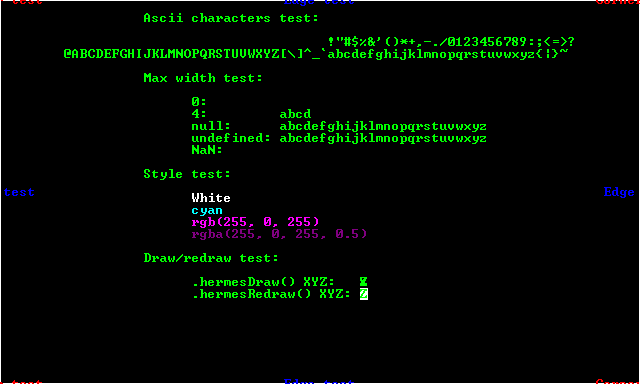
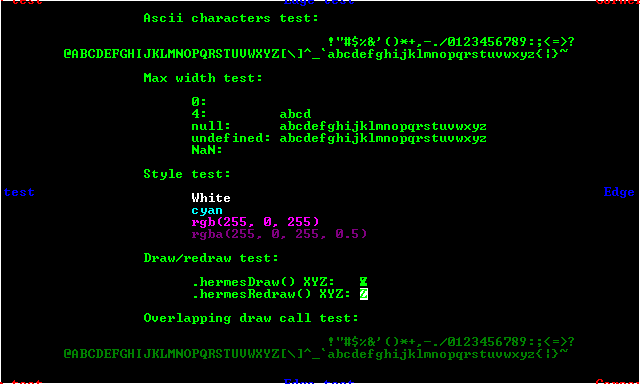
Remove overlapping draw calls for proper transparency

Changed region(s): [[0.0938, 0.875, 0.9062, 0.9375], [0.2188, 0.8125, 0.5625, 0.8438]]

diff --git a/Hermes/Hermes.js b/Hermes/Hermes.js
@@ -19,17 +19,17 @@ var HERMES = (function() { // Module pattern
   // @prop Object DRAW_CALLS -- Holds coordinates used in .fillRect() calls for each ascii character
   var DRAW_CALLS = exports.DRAW_CALLS = {
     ' ' : [],
-    '!' : [[1,  2, 4,  3], [2,  1, 2,  6], [2,  8, 2,  2]],
+    '!' : [[1,  2, 1,  3], [2,  1, 2,  6], [2,  8, 2,  2], [4,  2, 1,  3]],
     '"' : [[1,  1, 2,  3], [2,  4, 1,  1], [5,  1, 2,  3], [5,  4, 1,  1]],
-    '#' : [[1,  1, 2,  9], [0,  3, 7,  1], [4,  1, 2,  9], [0,  7, 7,  1]],
+    '#' : [[0,  3, 7,  1], [0,  7, 7,  1], [1,  1, 2,  2], [1,  4, 2,  3], [1,  8, 2,  2], [4,  1, 2,  2], [4,  4, 2,  3], [4,  8, 2,  2]],
     '$' : [[2,  0, 2,  2], [1,  2, 5,  1], [0,  3, 2,  2], [1,  5, 4,  1], [4,  6, 2,  2], [0,  8, 5,  1], [2,  9, 2,  2]],
     '%' : [[0,  3, 2,  2], [5,  3, 1,  1], [4,  4, 2,  1], [3,  5, 2,  1], [2,  6, 2,  1], [1,  7, 2,  1], [0,  8, 2,  1], [0,  9, 1,  1], [4,  8, 2,  2]],
-    '&' : [[1,  1, 3,  1], [0,  2, 2,  2], [3,  2, 2,  2], [1,  4, 3,  2], [0,  5, 2,  4], [3,  5, 2,  2], [6,  5, 1,  2], [4,  6, 2,  3], [3,  8, 1,  1], [1,  9, 3,  1], [5,  9, 2,  1]],
+    '&' : [[1,  1, 3,  1], [0,  2, 2,  2], [3,  2, 2,  2], [1,  4, 3,  1], [0,  5, 2,  4], [2,  5, 3,  1], [3,  6, 4,  1], [6,  5, 1,  1], [4,  7, 2,  2], [3,  8, 1,  1], [1,  9, 3,  1], [5,  9, 2,  1]],
     '\'': [[2,  1, 2,  3], [1,  4, 2,  1]],
     '(' : [[4,  1, 2,  1], [3,  2, 2,  1], [2,  3, 2,  5], [3,  8, 2,  1], [4,  9, 2,  1]],
     ')' : [[2,  1, 2,  1], [3,  2, 2,  1], [4,  3, 2,  5], [3,  8, 2,  1], [2,  9, 2,  1]],
-    '*' : [[1,  3, 2,  1], [5,  3, 2,  1], [2,  4, 4,  3], [0,  5, 8,  1], [1,  7, 2,  1], [5,  7, 2,  1]],
-    '+' : [[3,  3, 2,  5], [1,  5, 6,  1]],
+    '*' : [[1,  3, 2,  1], [5,  3, 2,  1], [2,  4, 4,  1], [0,  5, 8,  1], [2,  6, 4,  1], [1,  7, 2,  1], [5,  7, 2,  1]],
+    '+' : [[3,  3, 2,  2], [1,  5, 6,  1], [3,  6, 2,  2]],
     ',' : [[2,  8, 3,  2], [1,  10, 2,  1]],
     '-' : [[0,  5, 7,  1]],
     '.' : [[2,  8, 3,  2]],
@@ -38,7 +38,7 @@ var HERMES = (function() { // Module pattern
     '1' : [[0,  3, 2,  1], [2,  2, 2,  7], [3,  1, 1,  1], [0,  9, 6,  1]],
     '2' : [[1,  1, 4,  1], [0,  2, 2,  2], [4,  2, 2,  3], [3,  5, 2,  1], [2,  6, 2,  1], [1,  7, 2,  1], [0,  8, 2,  1], [4,  8, 2,  1], [0,  9, 6,  1]],
     '3' : [[1,  1, 4,  1], [0,  2, 2,  1], [4,  2, 2,  3], [2,  5, 3,  1], [4,  6, 2,  3], [0,  8, 2,  1], [1,  9, 4,  1]],
-    '4' : [[4,  1, 2,  8], [3,  2, 1,  1], [2,  3, 2,  1], [1,  4, 2,  1], [0,  5, 2,  1], [0,  6, 7,  1], [3,  9, 4,  1]],
+    '4' : [[4,  1, 2,  8], [3,  2, 1,  1], [2,  3, 2,  1], [1,  4, 2,  1], [0,  5, 2,  1], [0,  6, 4,  1], [6,  6, 1,  1], [3,  9, 4,  1]],
     '5' : [[0,  1, 6,  1], [0,  2, 2,  3], [0,  5, 5,  1], [4,  6, 2,  3], [0,  8, 2,  1], [1,  9, 4,  1]],
     '6' : [[2,  1, 3,  1], [1,  2, 2,  1], [0,  3, 2,  6], [2,  5, 3,  1], [4,  6, 2,  3], [1,  9, 4,  1]],
     '7' : [[0,  1, 7,  1], [0,  2, 2,  2], [5,  2, 2,  3], [4,  5, 2,  1], [3,  6, 2,  1], [2,  7, 2,  3]],
@@ -67,7 +67,7 @@ var HERMES = (function() { // Module pattern
     'N' : [[0,  1, 2,  9], [2,  3, 1,  3], [3,  4, 1,  3], [4,  5, 1,  3], [5,  1, 2,  9]],
     'O' : [[2,  1, 3,  1], [1,  2, 2,  1], [4,  2, 2,  1], [0,  3, 2,  5], [5,  3, 2,  5], [1,  8, 2,  1], [4,  8, 2,  1], [2,  9, 3,  1]],
     'P' : [[0,  1, 6,  1], [1,  2, 2,  7], [5,  2, 2,  3], [3,  5, 3,  1], [0,  9, 4,  1]],
-    'Q' : [[2,  1, 3,  1], [1,  2, 2,  1], [4,  2, 2,  1], [0,  3, 2,  5], [5,  3, 2,  5], [1,  8, 3,  1], [3,  7, 1,  1], [4,  6, 2,  4], [3, 10, 4,  1]],
+    'Q' : [[2,  1, 3,  1], [1,  2, 2,  1], [4,  2, 2,  1], [0,  3, 2,  5], [5,  3, 2,  5], [1,  8, 5,  1], [3,  7, 1,  1], [4,  6, 1,  2], [4,  9, 2,  1], [3, 10, 4,  1]],
     'R' : [[0,  1, 6,  1], [1,  2, 2,  7], [5,  2, 2,  3], [3,  5, 3,  1], [0,  9, 3,  1], [4,  6, 2,  1], [5,  7, 2,  3]],
     'S' : [[1,  1, 4,  1], [0,  2, 2,  3], [4,  2, 2,  2], [1,  5, 3,  1], [3,  6, 2,  1], [0,  7, 2,  2], [4,  7, 2,  2], [1,  9, 4,  1]],
     'T' : [[0,  1, 6,  1], [0,  2, 1,  1], [5,  2, 1,  1], [2,  2, 2,  7], [1,  9, 4,  1]],
@@ -88,7 +88,7 @@ var HERMES = (function() { // Module pattern
     'c' : [[1,  4, 4,  1], [0,  5, 2,  4], [4,  5, 2,  1], [4,  8, 2,  1], [1,  9, 4,  1]],
     'd' : [[3,  1, 1,  1], [4,  1, 2,  8], [1,  4, 3,  1], [0,  5, 2,  4], [1,  9, 3,  1], [5,  9, 2,  1]],
     'e' : [[1,  4, 4,  1], [0,  5, 2,  4], [4,  5, 2,  1], [2,  6, 4,  1], [4,  8, 2,  1], [1,  9, 4,  1]],
-    'f' : [[2,  1, 3,  1], [1,  2, 2,  7], [4,  2, 2,  1], [0,  5, 5,  1], [0,  9, 4,  1]],
+    'f' : [[2,  1, 3,  1], [1,  2, 2,  7], [4,  2, 2,  1], [0,  5, 1,  1], [3,  5, 2,  1], [0,  9, 4,  1]],
     'g' : [[1,  4, 3,  1], [5,  4, 2,  1], [0,  5, 2,  3], [4,  5, 2,  6], [1,  8, 3,  1], [0, 10, 2,  1], [1, 11, 4,  1]],
     'h' : [[0,  1, 3,  1], [1,  2, 2,  7], [4,  4, 2,  1], [3,  5, 1,  1], [5,  5, 2,  5], [0,  9, 3,  1]],
     'i' : [[3,  1, 2,  2], [1,  4, 4,  1], [3,  5, 2,  4], [1,  9, 6,  1]],
@@ -100,9 +100,9 @@ var HERMES = (function() { // Module pattern
     'o' : [[1,  4, 4,  1], [0,  5, 2,  4], [4,  5, 2,  4], [1,  9, 4,  1]],
     'p' : [[0,  4, 2,  1], [3,  4, 3,  1], [1,  5, 2,  6], [5,  5, 2,  4], [3,  9, 3,  1], [0, 11, 4,  1]],
     'q' : [[1,  4, 3,  1], [5,  4, 2,  1], [0,  5, 2,  4], [4,  5, 2,  6], [1,  9, 3,  1], [3, 11, 4,  1]],
-    'r' : [[0,  4, 3,  1], [4,  4, 2,  2], [1,  5, 2,  4], [3,  6, 1,  1], [5,  5, 2,  2], [0,  9, 4,  1]],
+    'r' : [[0,  4, 3,  1], [4,  4, 2,  2], [1,  5, 2,  4], [3,  6, 1,  1], [6,  5, 1,  2], [5,  6, 1,  1], [0,  9, 4,  1]],
     's' : [[1,  4, 4,  1], [0,  5, 2,  1], [4,  5, 2,  1], [1,  6, 2,  1], [3,  7, 2,  1], [0,  8, 2,  1], [4,  8, 2,  1], [1,  9, 4,  1]],
-    't' : [[2,  2, 1,  1], [1,  3, 2,  6], [0,  4, 6,  1], [2,  9, 3,  1], [4,  8, 2,  1]],
+    't' : [[2,  2, 1,  1], [1,  3, 2,  6], [0,  4, 1,  1], [3,  4, 3,  1], [2,  9, 3,  1], [4,  8, 2,  1]],
     'u' : [[0,  4, 2,  5], [4,  4, 2,  5], [1,  9, 3,  1], [5,  9, 2,  1]],
     'v' : [[0,  4, 2,  4], [4,  4, 2,  4], [1,  8, 4,  1], [2,  9, 2,  1]],
     'w' : [[0,  4, 2,  4], [5,  4, 2,  4], [3,  6, 1,  2], [1,  8, 2,  2], [4,  8, 2,  2]],

diff --git a/Hermes/test.html b/Hermes/test.html
@@ -94,6 +94,18 @@ actual.hermesRedraw('X', 45*HERMES.CHAR_WIDTH, 24*HERMES.CHAR_HEIGHT);
 actual.hermesRedraw('Y', 45*HERMES.CHAR_WIDTH, 24*HERMES.CHAR_HEIGHT);
 actual.hermesRedraw('Z', 45*HERMES.CHAR_WIDTH, 24*HERMES.CHAR_HEIGHT);
 
+actual.hermesDraw('Overlapping draw call test:', 18*HERMES.CHAR_WIDTH, 26*HERMES.CHAR_HEIGHT);
+
+actual.fillStyle = 'rgba(0, 255, 0, 0.5)';
+
+for(var i = 0, endi = 64; i < endi; ++i) {
+  actual.hermesDraw(String.fromCharCode(i), (8 + i)*HERMES.CHAR_WIDTH, 28*HERMES.CHAR_HEIGHT);
+}
+
+for(var i = 64, endi = 128; i < endi; ++i) {
+  actual.hermesDraw(String.fromCharCode(i), (8 + i - 64)*HERMES.CHAR_WIDTH, 29*HERMES.CHAR_HEIGHT);
+}
+
 actual.fillStyle = 'rgb(0, 0, 255)';
 actual.hermesDraw('Edge test', 640 - 4.5*HERMES.CHAR_WIDTH, 192 - 0.5*HERMES.CHAR_HEIGHT);
 actual.hermesDraw('Edge test', 320 - 4.5*HERMES.CHAR_WIDTH, 384 - 0.5*HERMES.CHAR_HEIGHT);
